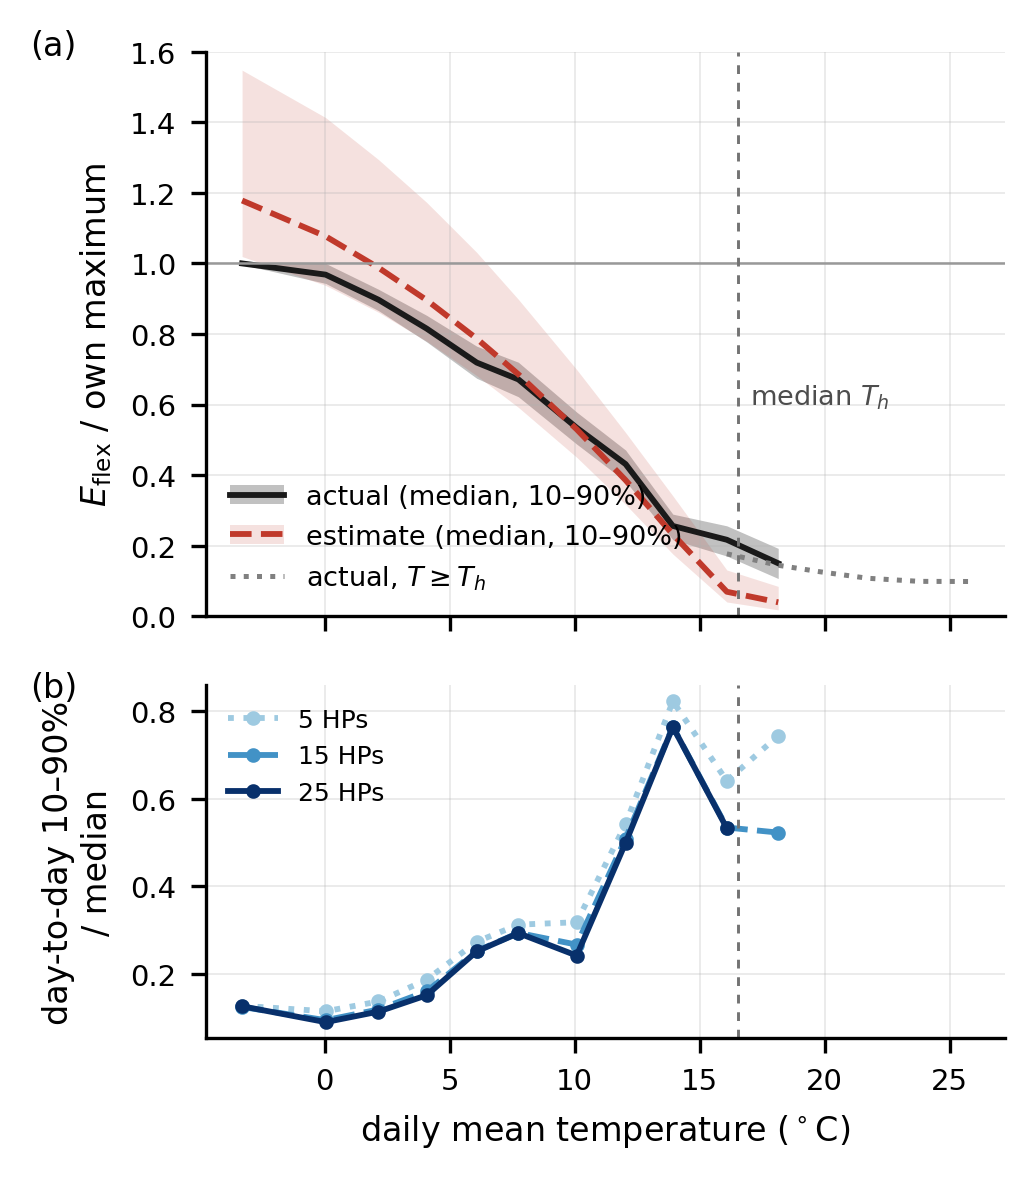
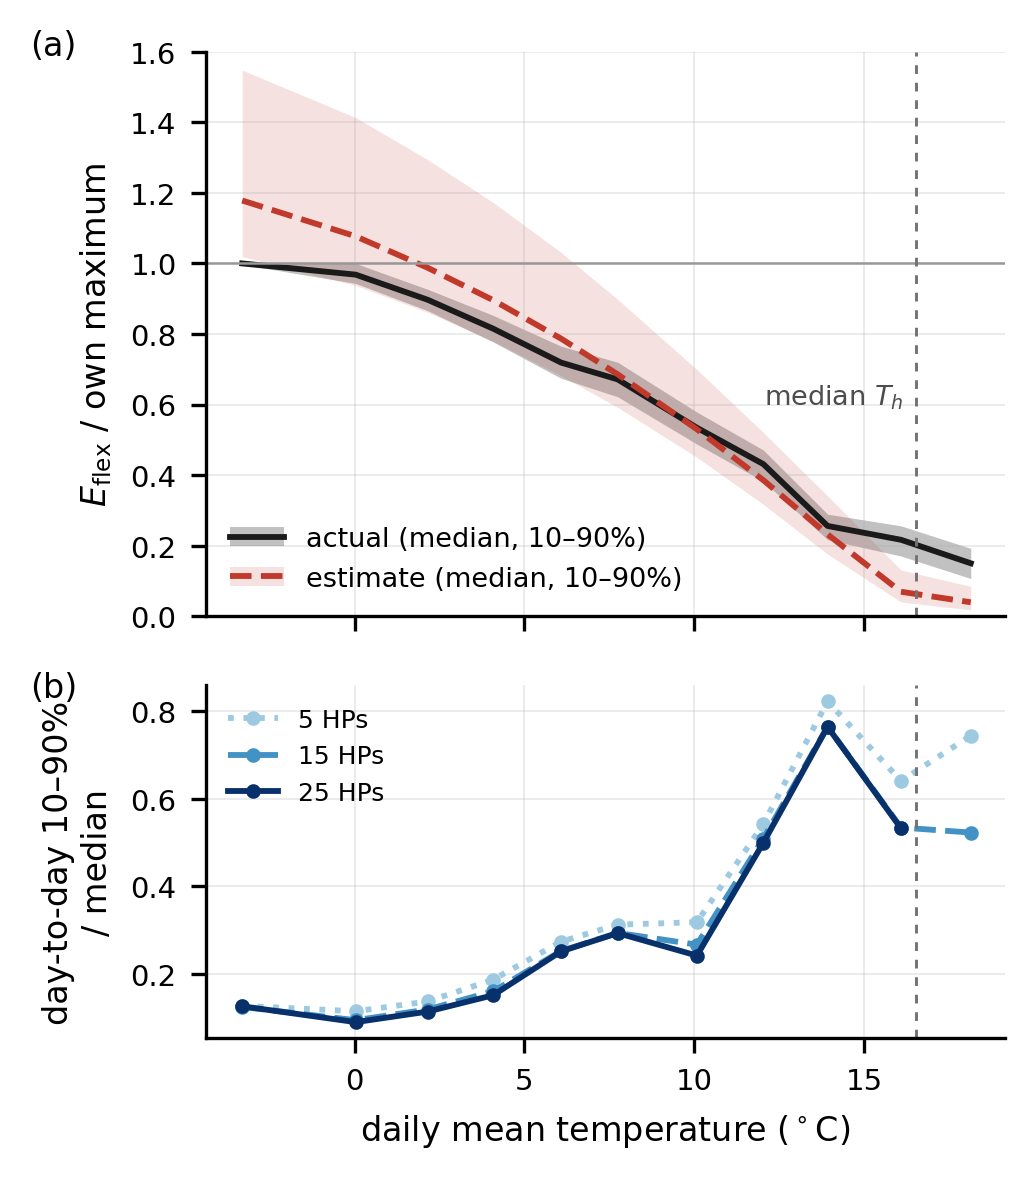
Fig. 7: drop the dead-band curve and the temperatures above the heating regime

diff --git a/scripts/flex_temperature.py b/scripts/flex_temperature.py
@@ -963,16 +963,14 @@ def fig_flex_all(L=None, name='fig_flex_all_normalised', saver=None):
     ax.plot(x, h.med.median(), color='0.1', lw=1.4)
     ax.fill_between(x, h.est.quantile(.1), h.est.quantile(.9), color=hf.C_HP, alpha=.15, lw=0)
     ax.plot(x, h.est.median(), color=hf.C_HP, ls='--', lw=1.4)
-    d = L[L.regime == 'dead band'].groupby('bin')
-    ax.plot(d.x.first(), d.med.median(), color='0.5', ls=':', lw=1.2)
+    xmax = float(x.max()) + 1.0          # heating-regime bins only; the dead band is not shown
     ax.axhline(1, color='0.6', lw=.6)
     ax.set_ylabel('$E_{\\mathrm{flex}}$ / own maximum')
     ax.set_ylim(0, 1.6)   # room for the 90th percentile of the estimate on cold days
     handles = [(Patch(color='0.2', alpha=.3, lw=0), Line2D([], [], color='0.1', lw=1.4)),
-               (Patch(color=hf.C_HP, alpha=.15, lw=0), Line2D([], [], color=hf.C_HP, ls='--', lw=1.4)),
-               Line2D([], [], color='0.5', ls=':', lw=1.2)]
+               (Patch(color=hf.C_HP, alpha=.15, lw=0), Line2D([], [], color=hf.C_HP, ls='--', lw=1.4))]
     # lower left is empty: the curves stay above 0.6 below about 8 degC
-    ax.legend(handles, ['actual (median, 10–90%)', 'estimate (median, 10–90%)', 'actual, $T \\geq T_h$'],
+    ax.legend(handles, ['actual (median, 10–90%)', 'estimate (median, 10–90%)'],
               fontsize=6.5, loc='lower left')
     ax = axs[1]
     for nh, c, ls in zip((5, 15, 25), ('#9ecae1', '#4292c6', '#08306b'), (':', '--', '-')):
@@ -984,7 +982,9 @@ def fig_flex_all(L=None, name='fig_flex_all_normalised', saver=None):
     th = float(rebuild_design()[0]['rows'].T_h.median())
     for ax in axs:
         ax.axvline(th, color='0.45', lw=.7, ls=(0, (3, 3)))
-    axs[0].annotate('median $T_h$', (th, 0.6), xytext=(3, 0), textcoords='offset points', fontsize=6.5, color='0.3')
+    axs[1].set_xlim(right=xmax)
+    axs[0].annotate('median $T_h$', (th, 0.6), xytext=(-3, 0), textcoords='offset points', fontsize=6.5, color='0.3',
+                    ha='right')
     for ax, lab in zip(axs, 'ab'):
         ax.text(-0.22, 1.04, f'({lab})', transform=ax.transAxes, fontsize=8, va='top')
     fig.tight_layout()

diff --git a/REVISION_LOG.md b/REVISION_LOG.md
@@ -521,3 +521,4 @@ Raised on 9 Nov and parked while the error metric and ranges change. Not done ye
 - **Table V → Fig. 6(b):** Table V (SF fits at N = 50 by N_hp) is removed. Fig. 6 gains panel (b): each aggregate's own m_h against installed capacity, as the 10–90% range over a 40 kW rolling window (evaluated every kW with ≥ 100 aggregates), the median of all 1260 aggregates (0.0180) and the median of the 20 pilots (0.0178). Colour bar label "number of HPs". IV-C now cites Fig. 6(b): m_h holds near 0.018 at every capacity (Spearman −0.06), maximum heating SF near 0.47 (was 0.48 at N = 50); the 10–90% width of m_h at five HPs is 0.0092 over all aggregates (was 0.0084 at N = 50), 0.0023 at twenty-five unchanged. R²_h and b_h by N_hp are no longer reported.
 - **Fig. 6 x-axis:** limited to the capacities the aggregates span (about 15–181 kW) instead of starting at 0; the through-origin line in (a) is drawn over that range only.
 - **Fig. 5 x-axis:** 8–102% with ticks every 10%, covering only the penetrations of the design (10–100%).
+- **Fig. 7:** the dotted "actual, T ≥ T_h" dead-band curve and its legend entry are removed, and the x-axis ends 1 °C after the last heating-regime bin (about 19 °C) instead of running to 26 °C. The "median T_h" label sits left of its line. No text referred to the dotted curve.
